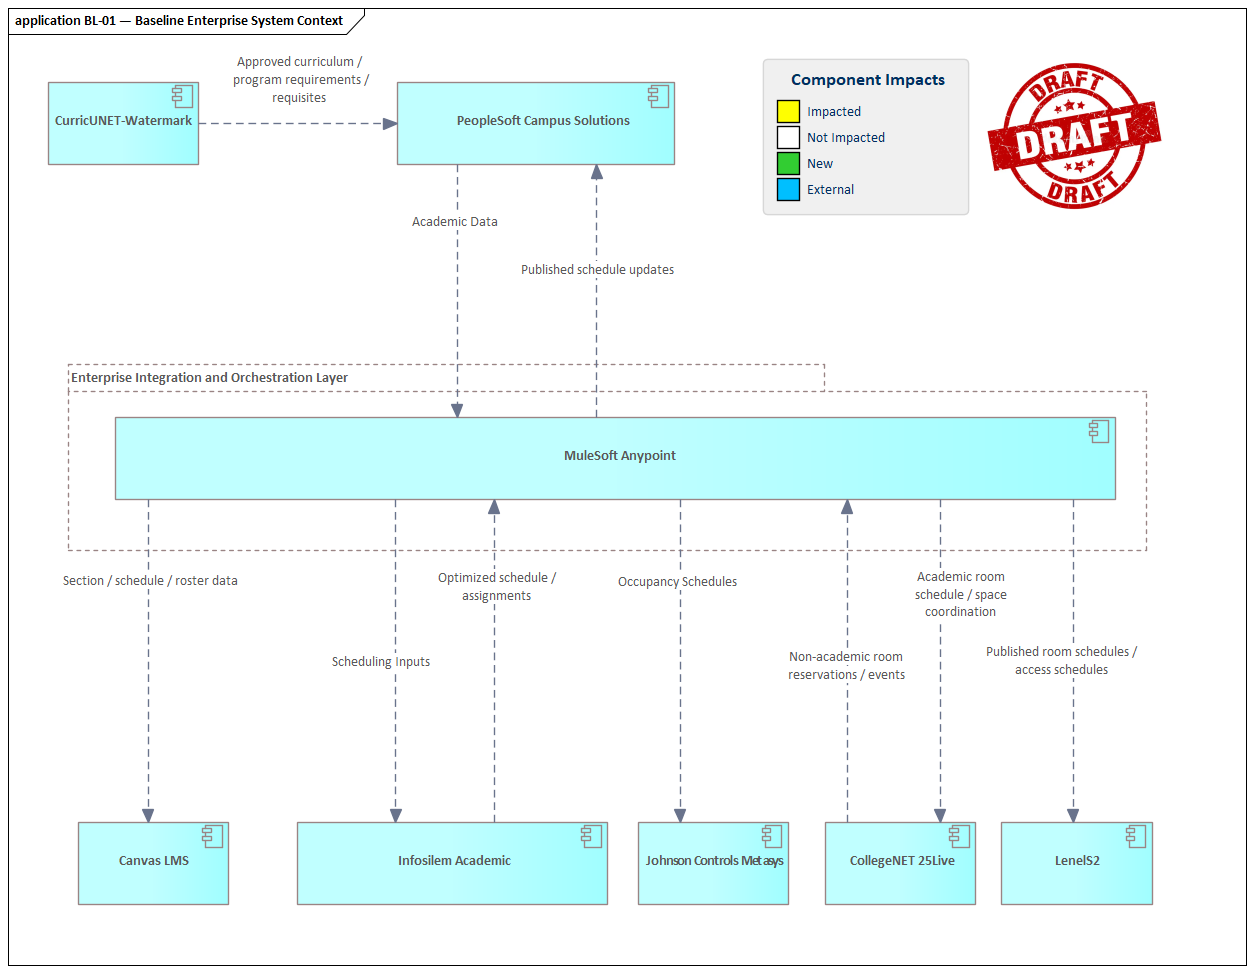
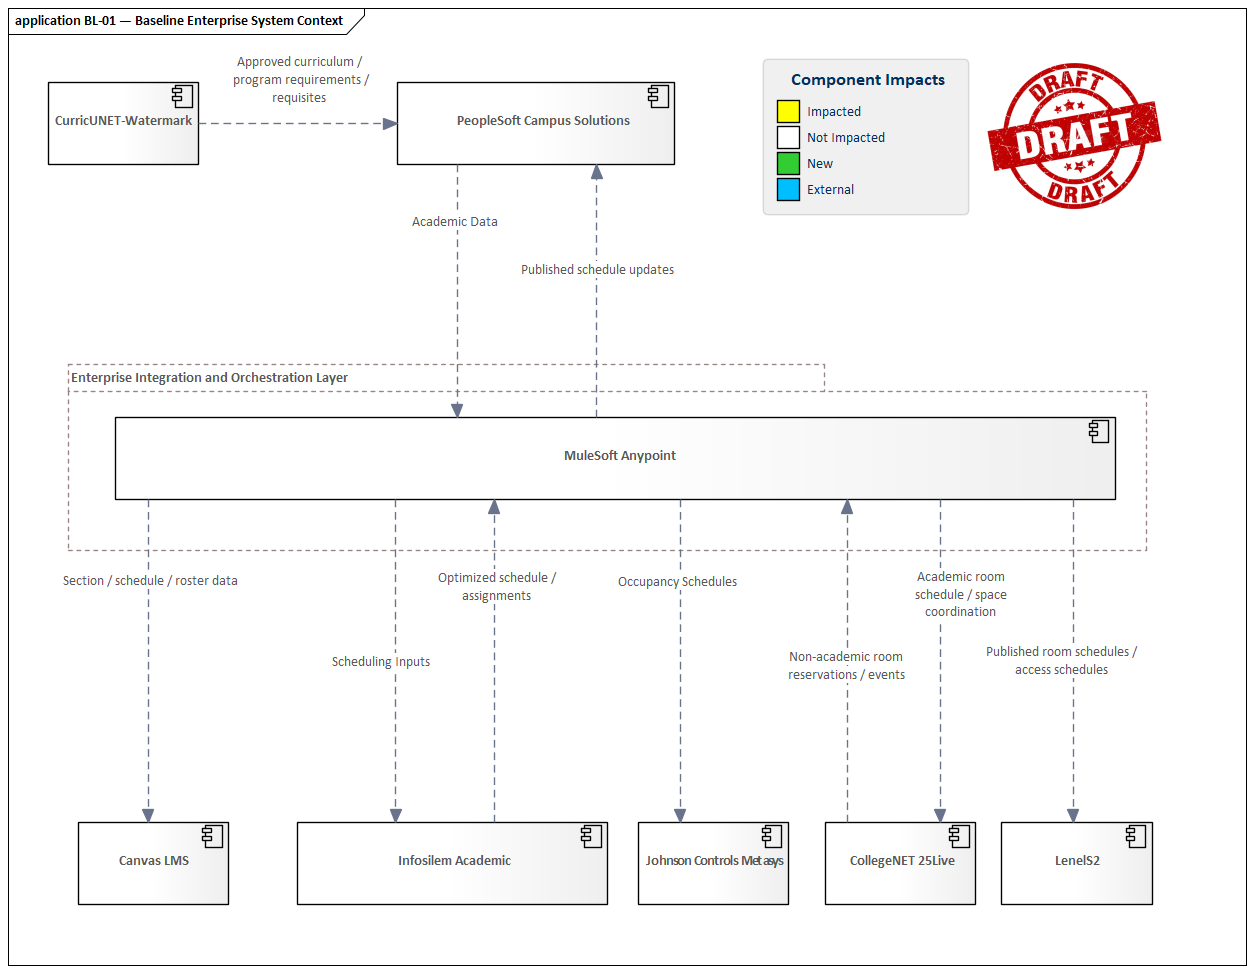
diagram updates

diff --git a/uofa-architecture.html b/uofa-architecture.html
@@ -330,6 +330,14 @@
       padding: 20px;
     }
 
+    .adm-label {
+      font-size: 13px;
+      color: var(--muted);
+      margin-top: 6px;
+      margin-bottom: 12px;
+      font-style: italic;
+    }
+
     @media (max-width: 900px) {
       .container {
         grid-template-columns: 1fr;
@@ -442,6 +450,7 @@
 
     <section id="overview">
       <h2>Overview</h2>
+      <div class="adm-label">TOGAF ADM: Preliminary</div>
 
       <p>
         Metropolitan State University (MSU) is implementing Infosilem Academic
@@ -484,6 +493,7 @@
 
     <section id="vision">
       <h2>1. Architecture Vision &amp; Scope</h2>
+      <div class="adm-label">TOGAF ADM: Phase A — Architecture Vision</div>
 
       <h3>Business Context</h3>
 
@@ -554,6 +564,7 @@
 
     <section id="baseline">
       <h2>2. Baseline Architecture Assessment</h2>
+      <div class="adm-label">TOGAF ADM: Phase B — Business Architecture (Baseline Assessment)</div>
 
       <p>
         The first architectural activity is to establish a fact-based baseline
@@ -626,6 +637,7 @@
 
     <section id="requirements">
       <h2>3. Requirements &amp; Stakeholder Analysis</h2>
+      <div class="adm-label">TOGAF ADM: Requirements Management / Phase A</div>
 
       <h3>Institutional Requirements</h3>
 
@@ -634,6 +646,7 @@
           <tr>
             <th>ID</th>
             <th>Requirement</th>
+            <th>Type</th>
             <th>Architectural Response</th>
           </tr>
         </thead>
@@ -642,60 +655,70 @@
           <tr>
             <td class="artifact-id">REQ-01</td>
             <td>Centralized Room Governance</td>
+            <td>Non-functional</td>
             <td>University instructional spaces managed centrally through Infosilem.</td>
           </tr>
 
           <tr>
             <td class="artifact-id">REQ-02</td>
             <td>Prime-Time Scheduling Distribution</td>
+            <td>Non-functional</td>
             <td>Enforce the 45% prime-time contact-hour cap.</td>
           </tr>
 
           <tr>
             <td class="artifact-id">REQ-03</td>
             <td>Standard Meeting Patterns</td>
+            <td>Functional</td>
             <td>Support 50-minute MWF and 75-minute TR patterns.</td>
           </tr>
 
           <tr>
             <td class="artifact-id">REQ-04</td>
             <td>Data Ownership &amp; Mastery</td>
+            <td>Non-functional</td>
             <td>Explicit source-of-truth boundaries and lifecycle rules.</td>
           </tr>
 
           <tr>
             <td class="artifact-id">REQ-05</td>
             <td>Bidirectional Schedule Synchronization</td>
+            <td>Functional</td>
             <td>Support controlled exchange between PeopleSoft and Infosilem.</td>
           </tr>
 
           <tr>
             <td class="artifact-id">REQ-06</td>
             <td>Specialized &amp; Shared Space Constraints</td>
+            <td>Functional</td>
             <td>Represent equipment, certification, turnover and shared-space requirements.</td>
           </tr>
 
           <tr>
             <td class="artifact-id">REQ-07</td>
             <td>Faculty Availability &amp; Workload Constraints</td>
+            <td>Functional</td>
             <td>Account for daily spread, workload and multi-campus travel.</td>
           </tr>
 
           <tr>
             <td class="artifact-id">REQ-08</td>
             <td>Downstream Near-Real-Time Integration</td>
+            <td>Non-functional</td>
             <td>Propagate schedule changes to operational consumers promptly.</td>
           </tr>
 
           <tr>
             <td class="artifact-id">REQ-09</td>
             <td>Security, Identity &amp; Access Control</td>
+            <td>Non-functional</td>
             <td>Use enterprise identity, authorization and secure integration.</td>
           </tr>
 
           <tr>
             <td class="artifact-id">REQ-10</td>
             <td>Optimization &amp; Schedule Quality</td>
+            <td>Functional</td>
             <td>Use Infosilem optimization to improve schedule quality and space utilization.</td>
           </tr>
         </tbody>
@@ -885,6 +908,7 @@
 
     <section id="target">
       <h2>4. Target Architecture</h2>
+      <div class="adm-label">TOGAF ADM: Phases B/C/D — Target Architecture (Business / Data / Technology)</div>
 
       <p>
         The target architecture separates business ownership from integration
@@ -893,31 +917,11 @@
       </p>
 
       <div class="model-box">
-        <div class="model">CurricUNET
-     |
-     | Curriculum / requirements
-     v
-+------------------+
-|     MuleSoft     |
-| API / Messaging  |
-| Orchestration    |
-+------------------+
-     |          |
-     |          |
-     v          v
-PeopleSoft    Infosilem
-     ^          |
-     |          |
-     +----------+
-       Schedule
-       synchronization
-
-MuleSoft
-  |
-  +----> 25Live
-  +----> Canvas
-  +----> LenelS2
-  +----> Metasys</div>
+        <div class="diagram-figure" style="margin-top:0.5rem">
+          <a href="images/uofa/ta-01-full.png" class="diagram-link">
+            <img src="images/uofa/ta-01-full.png" alt="TA-01 Target Enterprise Application Architecture preview" style="max-width:100%;border:1px solid #ddd;display:block">
+          </a>
+        </div>
       </div>
 
       <h3>Target-State Responsibilities</h3>
@@ -1004,8 +1008,8 @@ MuleSoft
           high-level integration direction.
         </p>
         <div class="diagram-figure" style="margin-top:0.5rem">
-          <a href="images/uofa/rt-01-full.png" class="diagram-link">
-            <img src="images/uofa/rt-01-full.png" alt="TA-01 Target Enterprise Application Architecture preview" style="max-width:260px;border:1px solid #ddd;display:block">
+          <a href="images/uofa/ta-01-full.png" class="diagram-link">
+            <img src="images/uofa/ta-01-full.png" alt="TA-01 Target Enterprise Application Architecture preview" style="max-width:260px;border:1px solid #ddd;display:block">
           </a>
         </div>
       </div>
@@ -1015,6 +1019,7 @@ MuleSoft
 
     <section id="data">
       <h2>5. Data Architecture &amp; Ownership</h2>
+      <div class="adm-label">TOGAF ADM: Phase C — Information Systems Architecture (Data)</div>
 
       <p>
         Data ownership is established before detailed synchronization behavior.
@@ -1133,6 +1138,7 @@ MuleSoft
 
     <section id="integration">
       <h2>6. Integration &amp; Synchronization Strategy</h2>
+      <div class="adm-label">TOGAF ADM: Phase C/D — Application &amp; Technology Architecture</div>
 
       <p>
         The architecture deliberately uses multiple integration mechanisms.
@@ -1240,6 +1246,7 @@ MuleSoft
 
     <section id="edge">
       <h2>7. Schedule Changes &amp; Edge Cases</h2>
+      <div class="adm-label">TOGAF ADM: Phase H — Architecture Change Management</div>
 
       <h3>7.1 Schedule Delta Management</h3>
 
@@ -1402,6 +1409,7 @@ Published Schedule
 
     <section id="collaboration">
       <h2>8. Stakeholder Collaboration &amp; Governance</h2>
+      <div class="adm-label">TOGAF ADM: Preliminary / Architecture Governance</div>
 
       <p>
         The architecture must be constructed collaboratively because the
@@ -1530,6 +1538,7 @@ Published Schedule
 
     <section id="gaps">
       <h2>9. Gap Analysis &amp; Implementation Strategy</h2>
+      <div class="adm-label">TOGAF ADM: Phase E/F — Opportunities &amp; Solutions / Migration Planning</div>
 
       <p>
         The gap analysis converts the difference between baseline and target
@@ -1604,6 +1613,7 @@ Published Schedule
 
     <section id="implementation">
       <h2>10. Implementation &amp; Migration</h2>
+      <div class="adm-label">TOGAF ADM: Phase F/G — Migration Planning &amp; Implementation Governance</div>
 
       <h3>Plateau 1 — Baseline</h3>
 
@@ -1662,6 +1672,7 @@ Published Schedule
 
     <section id="validation">
       <h2>11. Validation &amp; Pilot</h2>
+      <div class="adm-label">TOGAF ADM: Phase G — Implementation Governance / Validation</div>
 
       <p>
         Validation must demonstrate that the target architecture works against
@@ -1743,6 +1754,7 @@ Published Schedule
 
     <section id="production">
       <h2>12. Production Readiness</h2>
+      <div class="adm-label">TOGAF ADM: Phase G/H — Implementation &amp; Change Management / Readiness</div>
 
       <p>
         Production readiness is treated as an architecture concern rather than
@@ -1792,6 +1804,7 @@ Published Schedule
 
     <section id="artifacts">
       <h2>13. Architecture Artifacts</h2>
+      <div class="adm-label">TOGAF ADM: Artifacts &amp; Deliverables (All Phases)</div>
 
       <p>
         Sparx Enterprise Architect is the authoritative architecture modeling
@@ -1931,6 +1944,7 @@ Published Schedule
 
     <section id="adr">
       <h2>14. Architecture Decision Record</h2>
+      <div class="adm-label">TOGAF ADM: Architecture Governance / ADRs (Governance Artifact)</div>
 
       <h3>ADR-01 — Academic Schedule Data Ownership &amp; Bidirectional Synchronization</h3>
 
@@ -2191,6 +2205,7 @@ Published Schedule
 
     <section id="success">
       <h2>15. Success Measures</h2>
+      <div class="adm-label">TOGAF ADM: Benefits Realization &amp; Governance</div>
 
       <p>
         The architecture is successful when the institution can operate the
